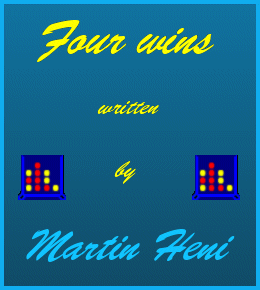
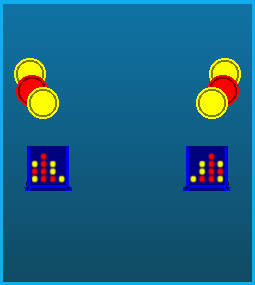
Intro graphic is now i18n'able (using drawText instead of Bitmap) enddlg disabled (bugreport and I agree)
svn path=/trunk/kdegames/kwin4/; revision=99483

diff --git a/kwin4/kwin4view.cpp b/kwin4/kwin4view.cpp
@@ -133,8 +133,22 @@ void Kwin4View::updateArrow(int x){
 }
 
 /** Draw the game intro */
-void Kwin4View::drawIntro(QPainter *p){
+void Kwin4View::drawIntro(QPainter *p)
+{
+  QString ld;
   p->drawPixmap(geom.intro_origin,getDocument()->m_PixAbout);
+  // QFont font(p->font());
+  QFont font("Helvetica");
+  font.setPointSize(28);
+  font.setBold(true);
+  font.setItalic(true);
+  p->setFont(font);
+  p->setPen(COL_YELLOW);
+  ld=i18n("Four wins for KDE","Four wins\n\nfor\n\nK D E");
+  QRect rect(geom.intro_origin+QPoint(0,14),getDocument()->m_PixAbout.size());
+  
+	p->drawText(rect,QPainter::AlignHCenter|QPainter::AlignTop ,ld);
+
 }
 /** Draw the game board */
 void Kwin4View::drawField(QPainter *p){

diff --git a/kwin4/kwin4.cpp b/kwin4/kwin4.cpp
@@ -599,6 +599,7 @@ void Kwin4App::readProperties(KConfig* _cfg)
 
 bool Kwin4App::queryClose()
 {
+  return true;
   kEndDlg *dlg=new kEndDlg(this);
   dlg->setCaption(appTitle());
   dlg->SetPixmap(doc->m_PixWin4About);
